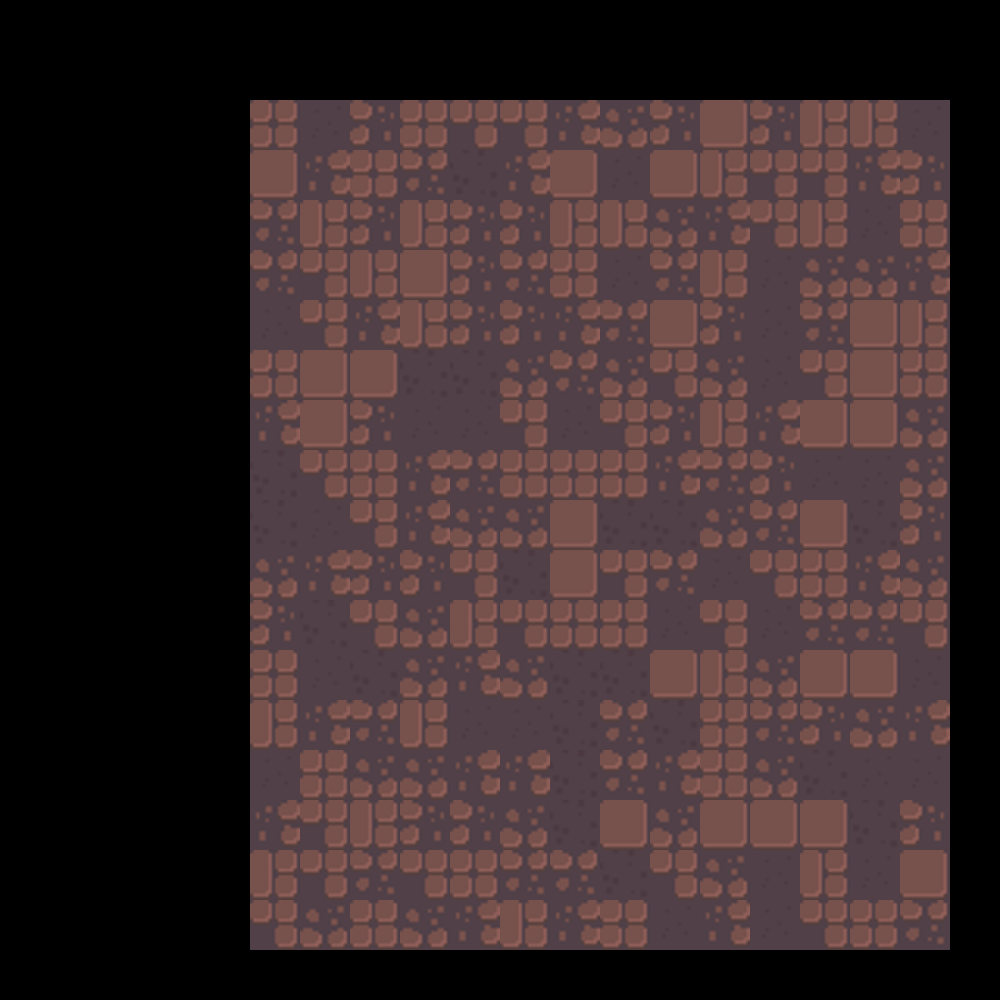
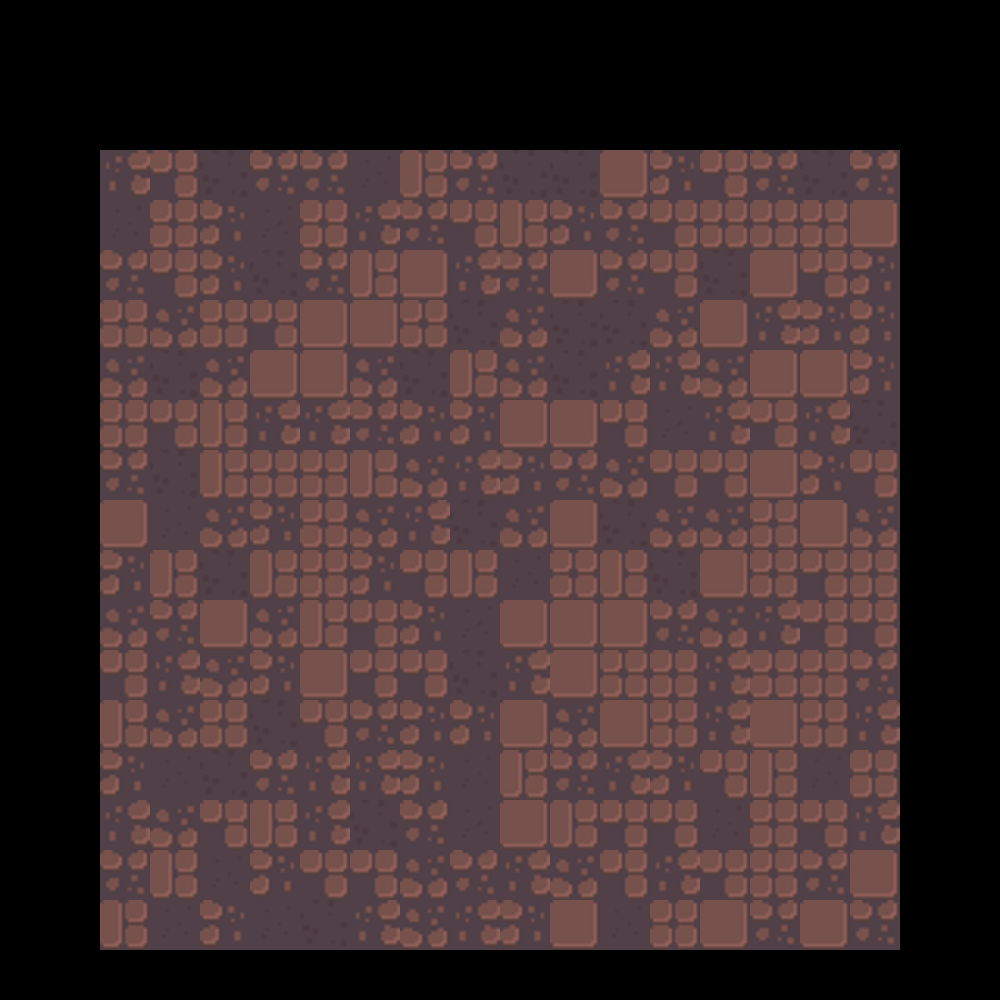
add

diff --git a/main.py b/main.py
@@ -26,7 +26,7 @@ def start_game():
     time_update: float = time.time()
 
     while running:
-        if time.time() - time_move_mobs >= TIME_MOVE_MOBS:
+        if time.time() - time_move_mobs >= TIME_MOVE_MOBS * 3:
             time_move_mobs = time.time()
             for i in mobs_group:
                 i.run()
@@ -62,21 +62,21 @@ def start_game():
                 #print(player.weapon.rect.center)
         keys = pygame.key.get_pressed()
         if (keys[pygame.K_RIGHT] and keys[pygame.K_UP]) or (keys[pygame.K_w] and keys[pygame.K_d]):
-            player.move(0.7, -0.7)
+            player.move(0.35, -0.35)
         elif (keys[pygame.K_RIGHT] and keys[pygame.K_DOWN]) or (keys[pygame.K_d] and keys[pygame.K_s]):
-            player.move(0.7, 0.7)
+            player.move(0.35, 0.35)
         elif (keys[pygame.K_DOWN] and keys[pygame.K_LEFT]) or (keys[pygame.K_s] and keys[pygame.K_a]):
-            player.move(-0.7, 0.7)
+            player.move(-0.35, 0.35)
         elif (keys[pygame.K_LEFT] and keys[pygame.K_UP]) or (keys[pygame.K_a] and keys[pygame.K_w]):
-            player.move(-0.7, -0.7)
+            player.move(-0.35, -0.35)
         elif keys[pygame.K_LEFT] or keys[pygame.K_a]:
-            player.move(-1, 0)
+            player.move(-0.5, 0)
         elif keys[pygame.K_RIGHT] or keys[pygame.K_d]:
-            player.move(1, 0)
+            player.move(0.5, 0)
         elif keys[pygame.K_DOWN] or keys[pygame.K_s]:
-            player.move(0, 1)
+            player.move(0, 0.5)
         elif keys[pygame.K_UP] or keys[pygame.K_w]:
-            player.move(0, -1)
+            player.move(0, -0.5)
         if keys[pygame.K_ESCAPE]:
             running = False
         if keys[pygame.K_q]:

diff --git a/generation_map.py b/generation_map.py
@@ -18,10 +18,8 @@ from functions import load_image
 from player import Player
 from settings import *
 from anim import *
-import tmxreader
-import helperspygame
 
-random.seed(10)
+random.seed(12)
 
 class Map:
     def __init__(self, size: tuple[int, int]):
@@ -260,7 +258,6 @@ class Map:
                     continue
                 flag = True
                 while flag:
-                    t = False
                     for i in [(-1, 0), (1, 0), (0, -1), (0, 1)]:
                         new_y, new_x = pos[1] + i[1], pos[0] + i[0]
                         if self.array[new_x - lx][new_y - ly] == self.array[pos[0] - lx][pos[1] - ly] - 1:
@@ -273,6 +270,7 @@ class Map:
                 # my_lst.append(self.get_real_pos((self.player.rect.x,
                 #                                  self.player.rect.y)))
                 mob.set_way(my_lst)
+                print(my_lst)
 
 
         self.array = None

diff --git a/anim.py b/anim.py
@@ -78,6 +78,7 @@ class EngryMob(Anim):
             return
         self.count_move += 1
         if self.count_move > self.max_count_move:
+            print()
             self.count_move = 0
             self.way_pos += 1
         if 0 <= self.way_pos < self.way.__len__() - 2:

diff --git a/settings.py b/settings.py
@@ -6,8 +6,8 @@ HEIGHT: int = 600
 
 TILE_SIZE: int = 50
 
-MAP_WIDTH: int = 100
-MAP_HEIGHT: int = 100
+MAP_WIDTH: int = 20
+MAP_HEIGHT: int = 20
 
 MIN_ROOM_SIZE: int = 15
 MIN_LEAF_SIZE: int = 20
